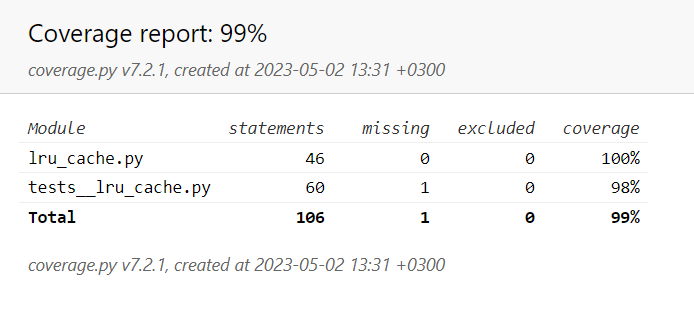
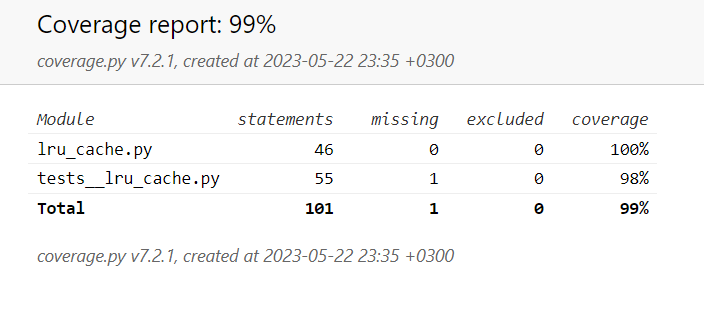
Add files via upload

diff --git a/05/tests__lru_cache.py b/05/tests__lru_cache.py
@@ -66,16 +66,9 @@ class MyTestCase(unittest.TestCase):
         new_cache.set("k2", "val2")
         new_cache.set("k1", "new_val1")
 
-        self.assertEqual(new_cache.get("k1"), "new_val1")
-        self.assertEqual(new_cache.get("k2"), "val2")
-
-        new_cache.set("k2", "new_val2")
-        self.assertEqual(new_cache.get("k1"), "new_val1")
-        self.assertEqual(new_cache.get("k2"), "new_val2")
-
         new_cache.set("k3", "val3")
-        self.assertEqual(new_cache.get("k1"), None)
-        self.assertEqual(new_cache.get("k2"), "new_val2")
+        self.assertEqual(new_cache.get("k1"), "new_val1")
+        self.assertEqual(new_cache.get("k2"), None)
         self.assertEqual(new_cache.get("k3"), "val3")
 
 
